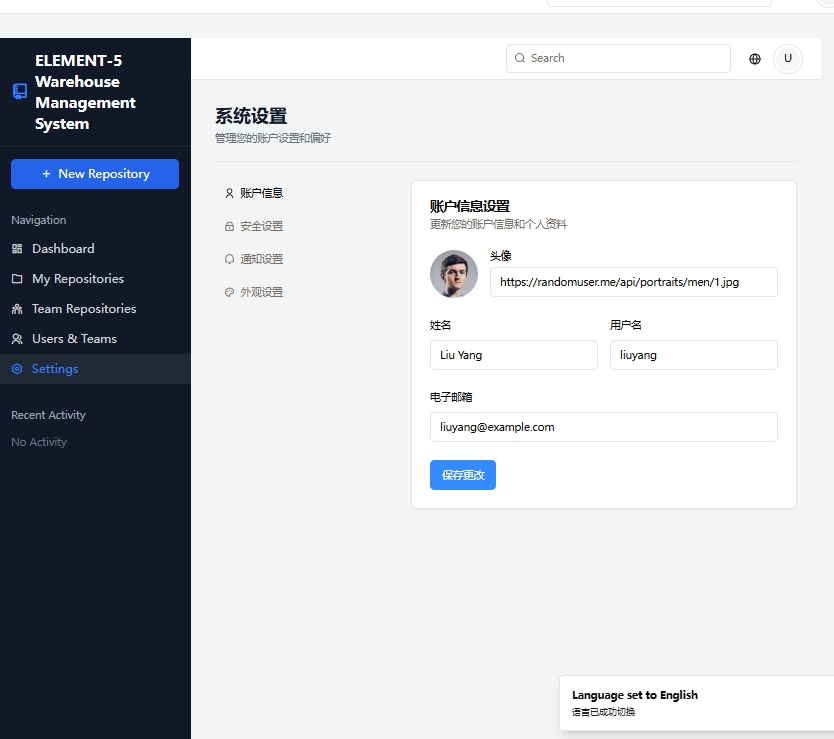
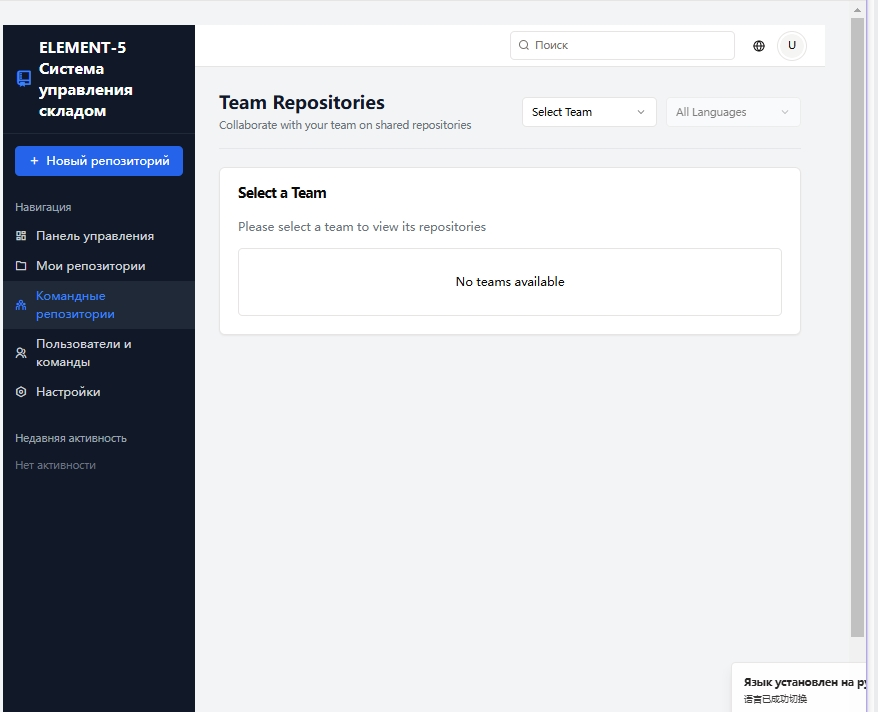
Add internationalization (i18n) support for My Repositories and Team Repositories pages.
Replit-Commit-Author: Agent
Replit-Commit-Session-Id: 60f3dffa-2fb3-478a-a123-ed03e427b74c
Replit-Commit-Screenshot-Url: https://storage.googleapis.com/screenshot-production-us-central1/02747779-55b8-4c50-aad4-a7eafbc2972b/9f52c02b-fc78-44a9-a6c7-62ed1d2e1839.jpg

diff --git a/client/src/pages/team-repositories.tsx b/client/src/pages/team-repositories.tsx
@@ -84,13 +84,13 @@ export default function TeamRepositories() {
     <Layout>
       <div className="pb-5 border-b border-gray-200 mb-6 flex flex-col sm:flex-row justify-between items-start sm:items-center">
         <div>
-          <h1 className="text-2xl font-bold text-gray-900">Team Repositories</h1>
-          <p className="mt-1 text-gray-500 text-sm">Collaborate with your team on shared repositories</p>
+          <h1 className="text-2xl font-bold text-gray-900">{t('repositories.team', 'Team Repositories')}</h1>
+          <p className="mt-1 text-gray-500 text-sm">{t('repositories.teamDescription', 'Collaborate with your team on shared repositories')}</p>
         </div>
         <div className="mt-4 sm:mt-0 flex flex-col sm:flex-row space-y-2 sm:space-y-0 sm:space-x-3">
           <Select value={selectedTeam} onValueChange={setSelectedTeam}>
             <SelectTrigger className="w-[180px]">
-              <SelectValue placeholder="Select Team" />
+              <SelectValue placeholder={t('repositories.selectTeam', 'Select Team')} />
             </SelectTrigger>
             <SelectContent>
               {isLoadingTeams ? (
@@ -113,10 +113,10 @@ export default function TeamRepositories() {
             disabled={!selectedTeam}
           >
             <SelectTrigger className="w-[180px]">
-              <SelectValue placeholder="All Languages" />
+              <SelectValue placeholder={t('dashboard.allLanguages', 'All Languages')} />
             </SelectTrigger>
             <SelectContent>
-              <SelectItem value="all">All Languages</SelectItem>
+              <SelectItem value="all">{t('dashboard.allLanguages', 'All Languages')}</SelectItem>
               <SelectItem value="javascript">JavaScript</SelectItem>
               <SelectItem value="python">Python</SelectItem>
               <SelectItem value="java">Java</SelectItem>
@@ -130,7 +130,7 @@ export default function TeamRepositories() {
       {selectedTeam ? (
         <div className="mb-6">
           <div className="flex justify-between items-center mb-4">
-            <h3 className="text-lg leading-6 font-medium text-gray-900">Team Repositories</h3>
+            <h3 className="text-lg leading-6 font-medium text-gray-900">{t('repositories.team', 'Team Repositories')}</h3>
             <div className="flex space-x-3">
               <Button
                 variant={viewMode === "list" ? "default" : "outline"}
@@ -138,7 +138,7 @@ export default function TeamRepositories() {
                 onClick={() => setViewMode("list")}
                 className="flex items-center"
               >
-                <i className="ri-list-check-2 mr-1.5"></i> List View
+                <i className="ri-list-check-2 mr-1.5"></i> {t('dashboard.listView', 'List View')}
               </Button>
               <Button
                 variant={viewMode === "grid" ? "default" : "outline"}
@@ -146,7 +146,7 @@ export default function TeamRepositories() {
                 onClick={() => setViewMode("grid")}
                 className="flex items-center"
               >
-                <i className="ri-grid-line mr-1.5"></i> Grid View
+                <i className="ri-grid-line mr-1.5"></i> {t('dashboard.gridView', 'Grid View')}
               </Button>
             </div>
           </div>
@@ -155,8 +155,8 @@ export default function TeamRepositories() {
             <RepositoryList 
               repositories={repositories} 
               isLoading={isLoadingRepositories}
-              title="Team Repositories"
-              subtitle="Repositories shared with your team"
+              title={t('repositories.team', 'Team Repositories')}
+              subtitle={t('repositories.teamDescription', 'Repositories shared with your team')}
             />
           ) : (
             <RepositoryGrid 
@@ -168,10 +168,10 @@ export default function TeamRepositories() {
       ) : (
         <Card>
           <CardHeader>
-            <CardTitle>Select a Team</CardTitle>
+            <CardTitle>{t('repositories.selectTeam', 'Select a Team')}</CardTitle>
           </CardHeader>
           <CardContent>
-            <p className="text-gray-500">Please select a team to view its repositories</p>
+            <p className="text-gray-500">{t('repositories.teamSelectPrompt', 'Please select a team to view its repositories')}</p>
             
             {isLoadingTeams ? (
               <div className="mt-4 grid grid-cols-1 sm:grid-cols-2 lg:grid-cols-3 gap-4">
@@ -191,13 +191,13 @@ export default function TeamRepositories() {
                     onClick={() => setSelectedTeam(team.id.toString())}
                   >
                     <h4 className="font-medium text-gray-900">{team.name}</h4>
-                    <p className="text-sm text-gray-500">{team.description || "No description"}</p>
+                    <p className="text-sm text-gray-500">{team.description || t('repositories.noDescription', 'No description')}</p>
                   </Card>
                 ))}
               </div>
             ) : (
               <div className="mt-4 text-center p-8 border rounded-md">
-                <p>No teams available</p>
+                <p>{t('repositories.noTeams', 'No teams available')}</p>
               </div>
             )}
           </CardContent>

diff --git a/client/src/pages/my-repositories.tsx b/client/src/pages/my-repositories.tsx
@@ -1,4 +1,5 @@
 import React, { useState } from "react";
+import { useTranslation } from "react-i18next";
 import { Layout } from "@/components/layout/layout";
 import { RepositoryList } from "@/components/repositories/repository-list";
 import { RepositoryGrid } from "@/components/repositories/repository-grid";
@@ -14,6 +15,7 @@ import { useQuery } from "@tanstack/react-query";
 import { CreateRepositoryDialog } from "@/components/repositories/create-repository-dialog";
 
 export default function MyRepositories() {
+  const { t } = useTranslation();
   const [viewMode, setViewMode] = useState<"list" | "grid">("list");
   const [languageFilter, setLanguageFilter] = useState<string>("all");
   const [visibilityFilter, setVisibilityFilter] = useState<string>("all");
@@ -31,16 +33,16 @@ export default function MyRepositories() {
     <Layout>
       <div className="pb-5 border-b border-gray-200 mb-6 flex flex-col sm:flex-row justify-between items-start sm:items-center">
         <div>
-          <h1 className="text-2xl font-bold text-gray-900">My Repositories</h1>
-          <p className="mt-1 text-gray-500 text-sm">Manage your personal repositories</p>
+          <h1 className="text-2xl font-bold text-gray-900">{t('repositories.my', 'My Repositories')}</h1>
+          <p className="mt-1 text-gray-500 text-sm">{t('repositories.recentDescription', 'Manage your personal repositories')}</p>
         </div>
         <div className="mt-4 sm:mt-0 flex flex-col sm:flex-row space-y-2 sm:space-y-0 sm:space-x-3">
           <Select value={languageFilter} onValueChange={setLanguageFilter}>
             <SelectTrigger className="w-[180px]">
-              <SelectValue placeholder="All Languages" />
+              <SelectValue placeholder={t('dashboard.allLanguages', 'All Languages')} />
             </SelectTrigger>
             <SelectContent>
-              <SelectItem value="all">All Languages</SelectItem>
+              <SelectItem value="all">{t('dashboard.allLanguages', 'All Languages')}</SelectItem>
               <SelectItem value="javascript">JavaScript</SelectItem>
               <SelectItem value="python">Python</SelectItem>
               <SelectItem value="java">Java</SelectItem>
@@ -51,10 +53,10 @@ export default function MyRepositories() {
 
           <Select value={visibilityFilter} onValueChange={setVisibilityFilter}>
             <SelectTrigger className="w-[180px]">
-              <SelectValue placeholder="All Visibility" />
+              <SelectValue placeholder={t('repositories.all_visibility', 'All Visibility')} />
             </SelectTrigger>
             <SelectContent>
-              <SelectItem value="all">All Visibility</SelectItem>
+              <SelectItem value="all">{t('repositories.all_visibility', 'All Visibility')}</SelectItem>
               <SelectItem value="public">Public</SelectItem>
               <SelectItem value="private">Private</SelectItem>
               <SelectItem value="internal">Internal</SelectItem>
@@ -65,7 +67,7 @@ export default function MyRepositories() {
 
       <div className="mb-6">
         <div className="flex justify-between items-center mb-4">
-          <h3 className="text-lg leading-6 font-medium text-gray-900">My Repositories</h3>
+          <h3 className="text-lg leading-6 font-medium text-gray-900">{t('repositories.my', 'My Repositories')}</h3>
           <div className="flex space-x-3">
             <Button
               variant={viewMode === "list" ? "default" : "outline"}
@@ -73,7 +75,7 @@ export default function MyRepositories() {
               onClick={() => setViewMode("list")}
               className="flex items-center"
             >
-              <i className="ri-list-check-2 mr-1.5"></i> List View
+              <i className="ri-list-check-2 mr-1.5"></i> {t('dashboard.listView', 'List View')}
             </Button>
             <Button
               variant={viewMode === "grid" ? "default" : "outline"}
@@ -81,13 +83,13 @@ export default function MyRepositories() {
               onClick={() => setViewMode("grid")}
               className="flex items-center"
             >
-              <i className="ri-grid-line mr-1.5"></i> Grid View
+              <i className="ri-grid-line mr-1.5"></i> {t('dashboard.gridView', 'Grid View')}
             </Button>
             <Button
               onClick={() => setCreateDialogOpen(true)}
               className="flex items-center"
             >
-              <i className="ri-add-line mr-1.5"></i> New Repository
+              <i className="ri-add-line mr-1.5"></i> {t('repositories.newRepository', 'New Repository')}
             </Button>
           </div>
         </div>
@@ -96,8 +98,8 @@ export default function MyRepositories() {
           <RepositoryList 
             repositories={repositories || []} 
             isLoading={isLoading}
-            title="My Repositories"
-            subtitle="Your personal repositories"
+            title={t('repositories.my', 'My Repositories')}
+            subtitle={t('repositories.recentDescription', 'Your personal repositories')}
           />
         ) : (
           <RepositoryGrid 

diff --git a/client/src/i18n.ts b/client/src/i18n.ts
@@ -367,16 +367,21 @@ const resources = {
         title: "Репозитории",
         my: "Мои репозитории",
         team: "Командные репозитории",
+        teamDescription: "Совместная работа с командой над общими репозиториями",
         newRepository: "Новый репозиторий",
         empty: "Нет репозиториев",
         createFirst: "Создайте свой первый репозиторий",
         search: "Поиск репозиториев",
         all_languages: "Все языки",
         all_users: "Все пользователи",
+        all_visibility: "Вся видимость",
         recent: "Последние репозитории",
         recentDescription: "Ваши недавно обновленные репозитории",
         notFound: "Репозиторий не найден",
-        noTeams: "Нет доступных команд"
+        noTeams: "Нет доступных команд",
+        selectTeam: "Выберите команду",
+        teamSelectPrompt: "Выберите команду для просмотра её репозиториев",
+        noDescription: "Нет описания"
       },
       warehouse: {
         products: "Товары",
